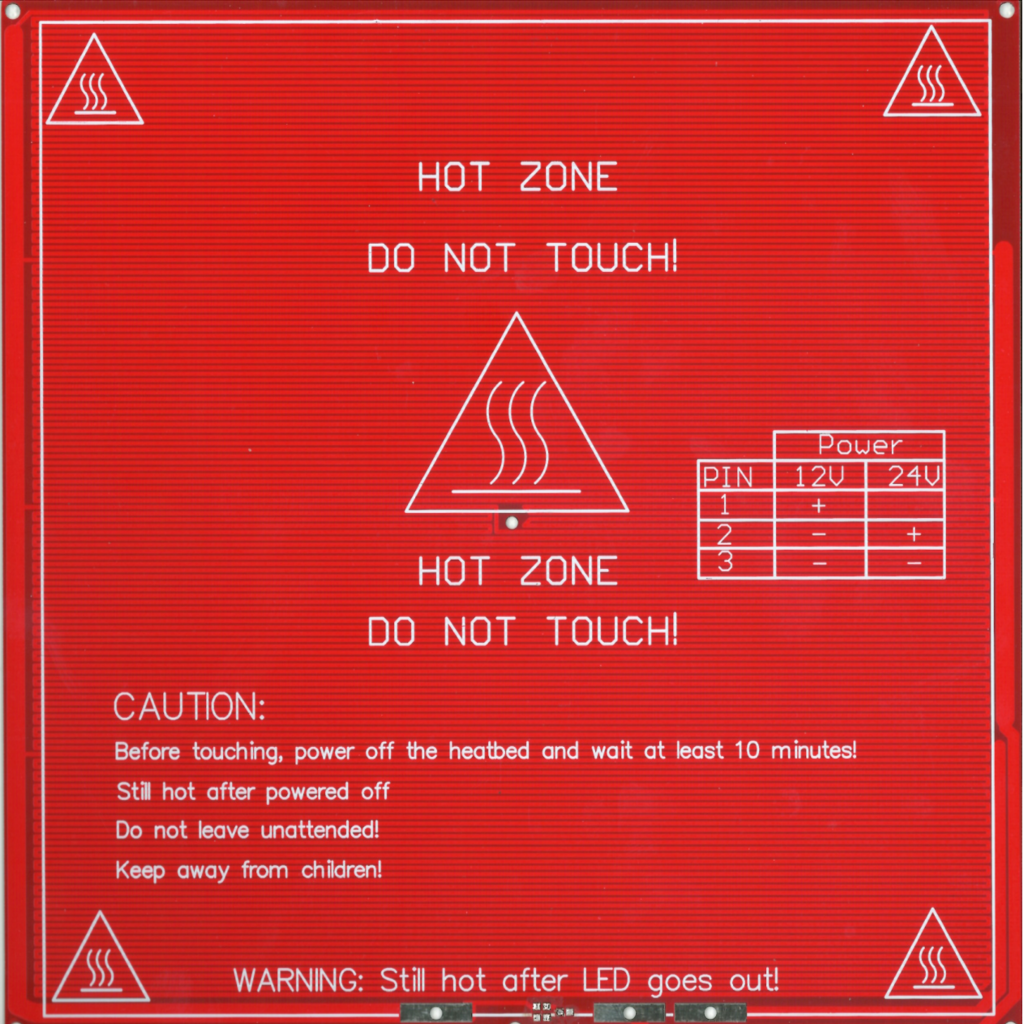
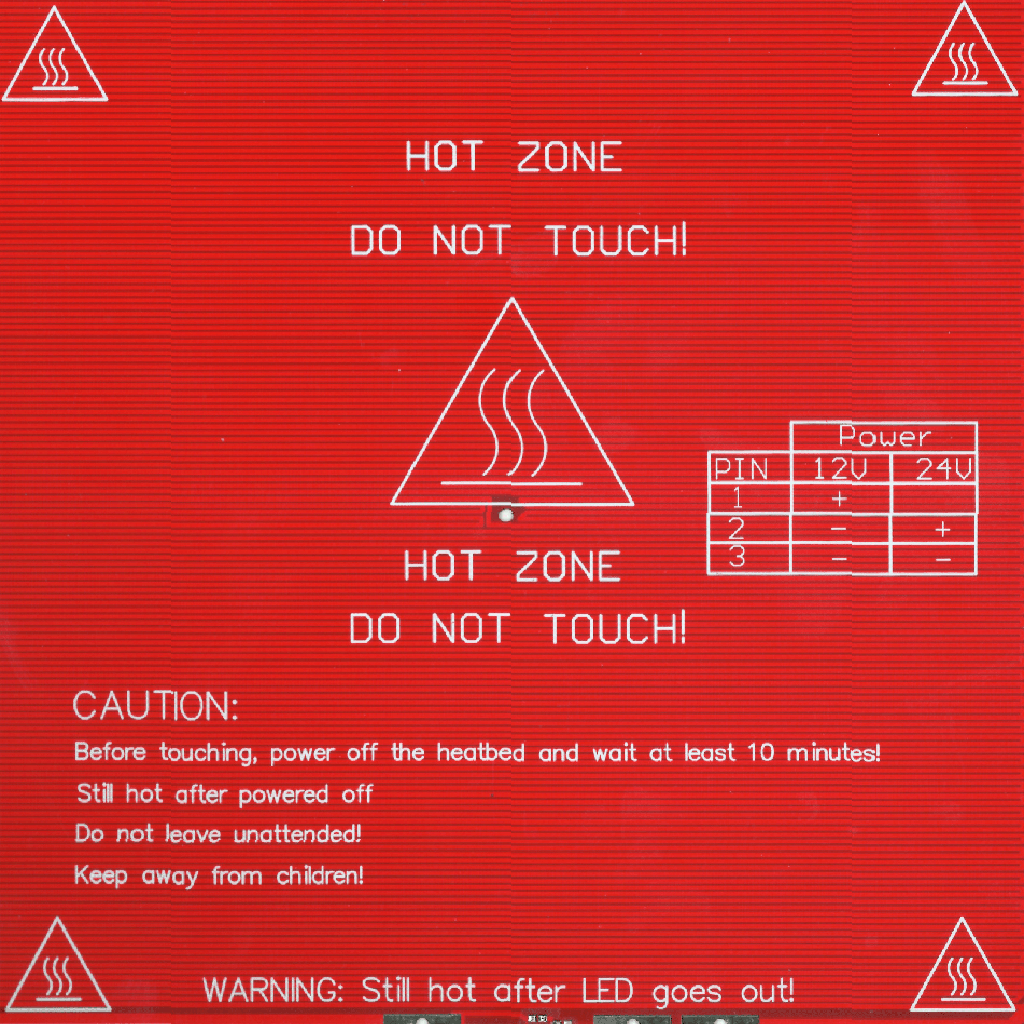
upravena textura podlozky, opraveny transformace do slic3ru, opraveno par dalsich drobnosti

diff --git a/sceneData.py b/sceneData.py
@@ -177,19 +177,39 @@ class Model(object):
         scale = numpy.array(self.scaleDefault)
         move = numpy.array(self.pos)
         moveM = Matrix44().from_translation(self.pos)
-        rotateXM = Matrix44().from_x_rotation(self.rot[0])
-        rotateYM = Matrix44().from_y_rotation(self.rot[1])
-        rotateZM = Matrix44().from_z_rotation(self.rot[2])
+        rotateXM = Matrix44().from_x_rotation(math.radians(self.rot[0]))
+        rotateYM = Matrix44().from_y_rotation(math.radians(self.rot[1]))
+        rotateZM = Matrix44().from_z_rotation(math.radians(self.rot[2]))
         scaleM = Matrix44().from_scale(self.scale)
         scaleDM = Matrix44().from_scale(self.scaleDefault)
 
-        f = moveM * rotateZM * rotateYM * rotateXM * scaleM * ~scaleDM
+        r = rotateXM * rotateYM * rotateZM
 
-        #TODO:Add rotation, move and scale
+        f = scaleM * ~r * moveM * ~scaleDM
+
         for i, d in enumerate(zip(self.v0, self.v1, self.v2)):
+            '''
+            d0 = scaleM * Vector3(d[0])
+            d1 = scaleM * Vector3(d[1])
+            d2 = scaleM * Vector3(d[2])
+
+            d0 = ~r * d0
+            d1 = ~r * d1
+            d2 = ~r * d2
+
+            d0 = moveM * d0
+            d1 = moveM * d1
+            d2 = moveM * d2
+
+            d0 = ~scaleDM * d0
+            d1 = ~scaleDM * d1
+            d2 = ~scaleDM * d2
+            '''
+
             d0 = f * Vector3(d[0])
             d1 = f * Vector3(d[1])
             d2 = f * Vector3(d[2])
+
             data['vectors'][i] = numpy.array([d0, d1, d2])
         #data['vectors'] = data['vectors']/scale
         #move = move / scale

diff --git a/sceneRender.py b/sceneRender.py
@@ -162,7 +162,7 @@ class GLWidget(QGLWidget):
     def initializeGL(self):
         #load textures
         self.image_background = self.texture_from_png("gui/background.png")
-        self.image_hotbed = self.texture_from_png("gui/heatbed.png", GL_RGBA)
+        self.image_hotbed = self.texture_from_png("gui/heatbed.png", GL_RGB)
 
         #tools
         #self.selectTool = GlButton(self.texture_from_png("gui/select_n.png", GL_RGBA), [4.,4.], [95, 16])
